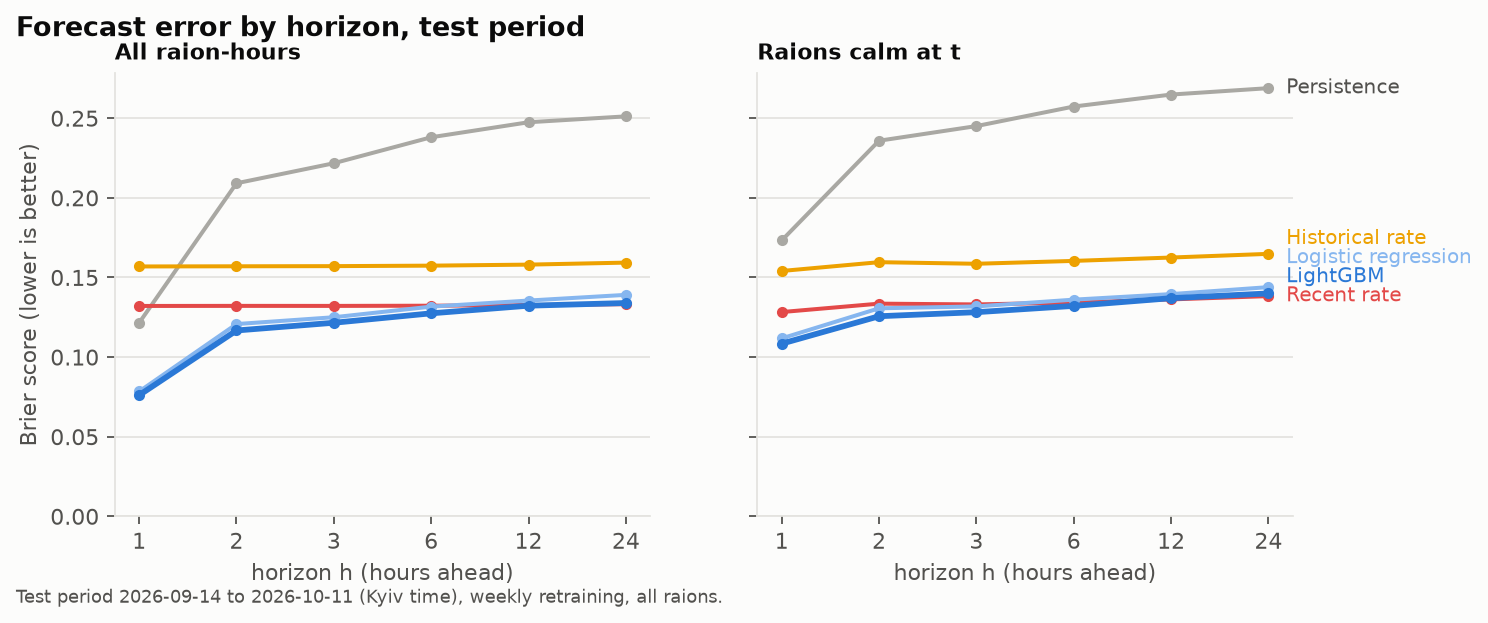
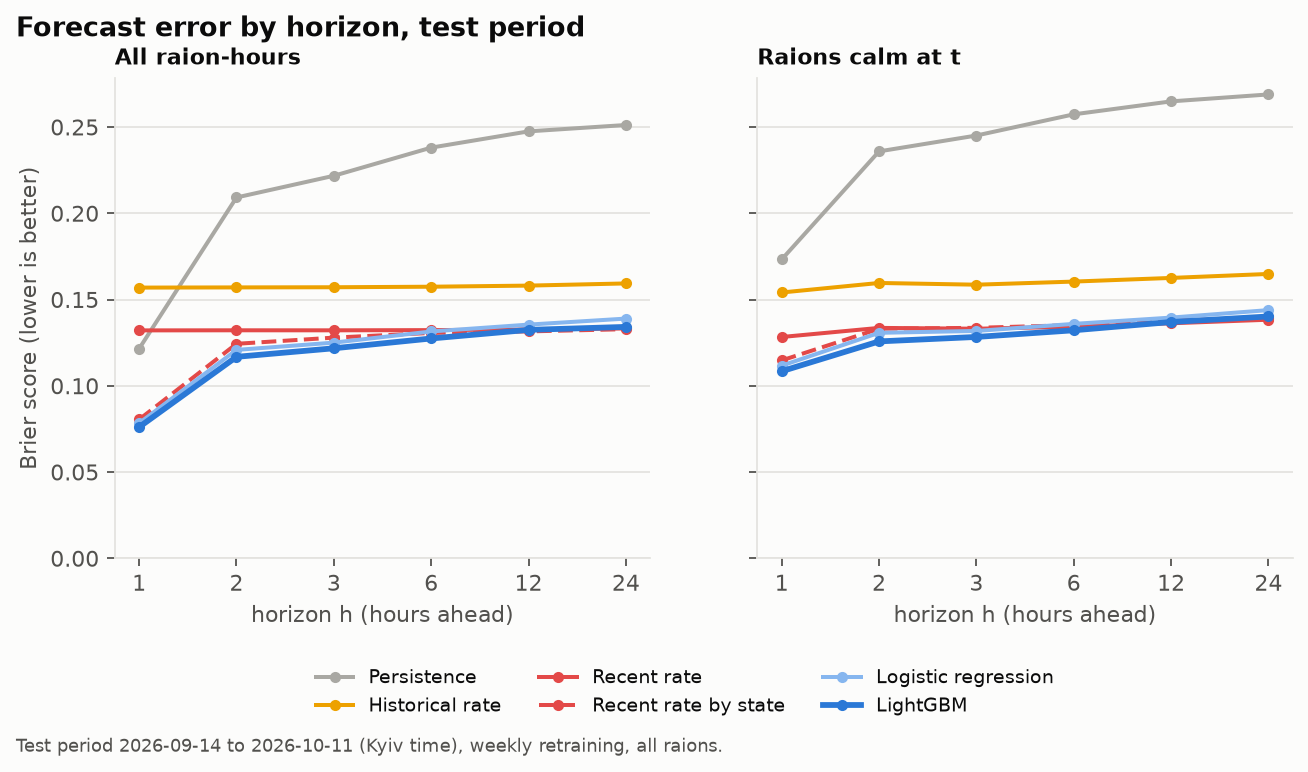
Redraw the result figures with Recent rate by state; legend instead of end labels

diff --git a/scripts/make_figures.py b/scripts/make_figures.py
@@ -176,34 +176,21 @@ def levels_by_day(alerts: pd.DataFrame) -> None:
 
 MODELS = {  # name in the test report: (label, colour), baselines first
     "persistence": ("Persistence", NEUTRAL), "historical_rate": ("Historical rate", YELLOW), "recent_rate": ("Recent rate", RED),
+    "recent_rate_by_state": ("Recent rate by state", RED),  # drawn dashed
     "logistic": ("Logistic regression", LIGHT_BLUE), "lightgbm": ("LightGBM", BLUE),
 }
 TEST_NOTE = "Test period 2026-09-14 to 2026-10-11 (Kyiv time), weekly retraining, all raions."
 
 
-def spread(values: dict, gap: float) -> dict:
-    """Label positions at least `gap` apart, each as close to its value as possible (bottom-up)."""
-    out, last = {}, -np.inf
-    for key, value in sorted(values.items(), key=lambda kv: kv[1]):
-        out[key] = last = max(value, last + gap)
-    return out
-
-
 def brier_by_horizon(metrics: pd.DataFrame) -> None:
-    fig, axes = plt.subplots(1, 2, figsize=(9.5, 3.6), sharey=True)
+    fig, axes = plt.subplots(1, 2, figsize=(9.5, 3.9), sharey=True)
     for ax, subset, title in ((axes[0], "all", "All raion-hours"), (axes[1], "calm at t", "Raions calm at t")):
         part = metrics[(metrics.units == "all") & (metrics.subset == subset)]
-        ends = {}
         for model, (label, color) in MODELS.items():
             line = part[part.model == model].sort_values("horizon")
             x = np.arange(len(line))
-            ax.plot(x, line.brier, color=color, linewidth=2.6 if model == "lightgbm" else 1.8, marker="o", markersize=4)
-            ends[model] = line.brier.iloc[-1]
-        if ax is axes[1]:
-            for model, y in spread(ends, gap=0.012).items():
-                label, color = MODELS[model]
-                ax.annotate(label, (x[-1], y), xytext=(8, 0), textcoords="offset points", va="center",
-                            color=color if model != "persistence" else INK_2, fontsize=9)
+            ax.plot(x, line.brier, color=color, linewidth=2.6 if model == "lightgbm" else 1.8, marker="o", markersize=4,
+                    linestyle="--" if model == "recent_rate_by_state" else "-", label=label)
         ax.set_xticks(x, line.horizon.astype(str))
         ax.set_xlabel("horizon h (hours ahead)")
         ax.set_title(title, fontsize=10)
@@ -211,8 +198,10 @@ def brier_by_horizon(metrics: pd.DataFrame) -> None:
         ax.set_axisbelow(True)
     axes[0].set_ylabel("Brier score (lower is better)")
     axes[0].set_ylim(0, None)
+    handles, labels = axes[0].get_legend_handles_labels()
+    fig.legend(handles, labels, loc="lower center", ncol=3, frameon=False, fontsize=8.5, bbox_to_anchor=(0.5, -0.17))
     fig.suptitle("Forecast error by horizon, test period", x=0.06, ha="left", fontweight="bold", fontsize=12)
-    fig.text(0.06, -0.04, TEST_NOTE, color=INK_2, fontsize=8)
+    fig.text(0.06, -0.2, TEST_NOTE, color=INK_2, fontsize=8)
     save(fig, "brier_by_horizon.png")
 
 
